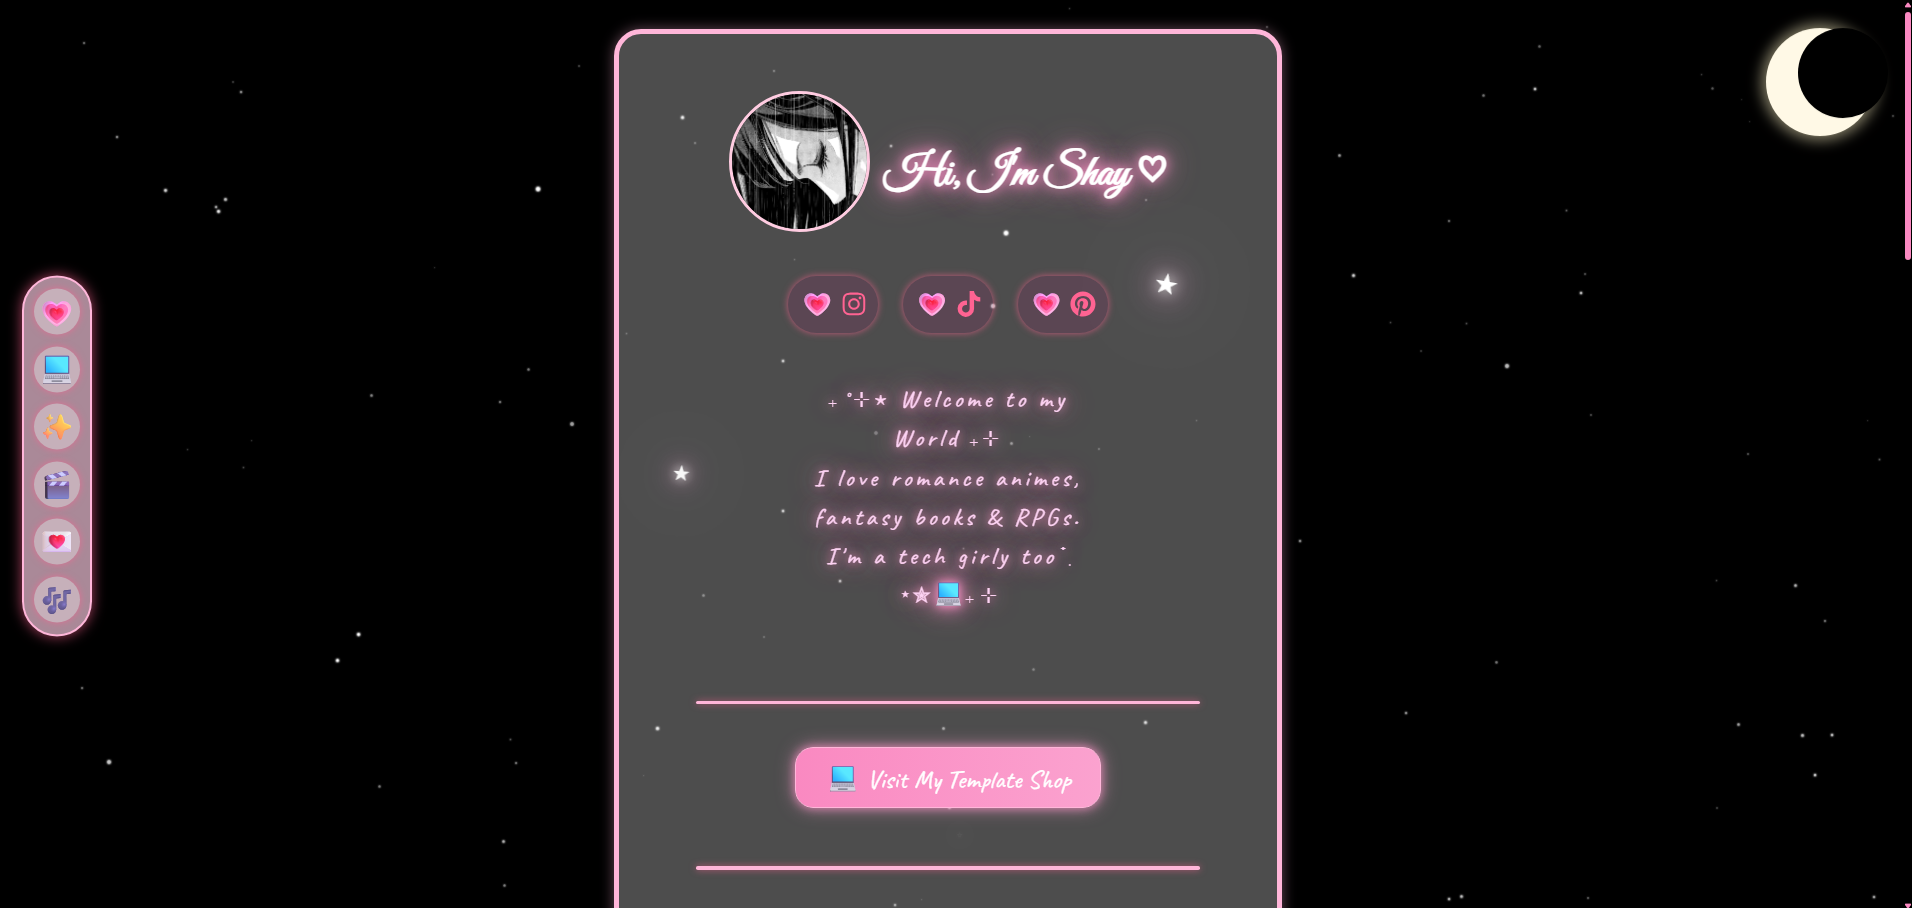
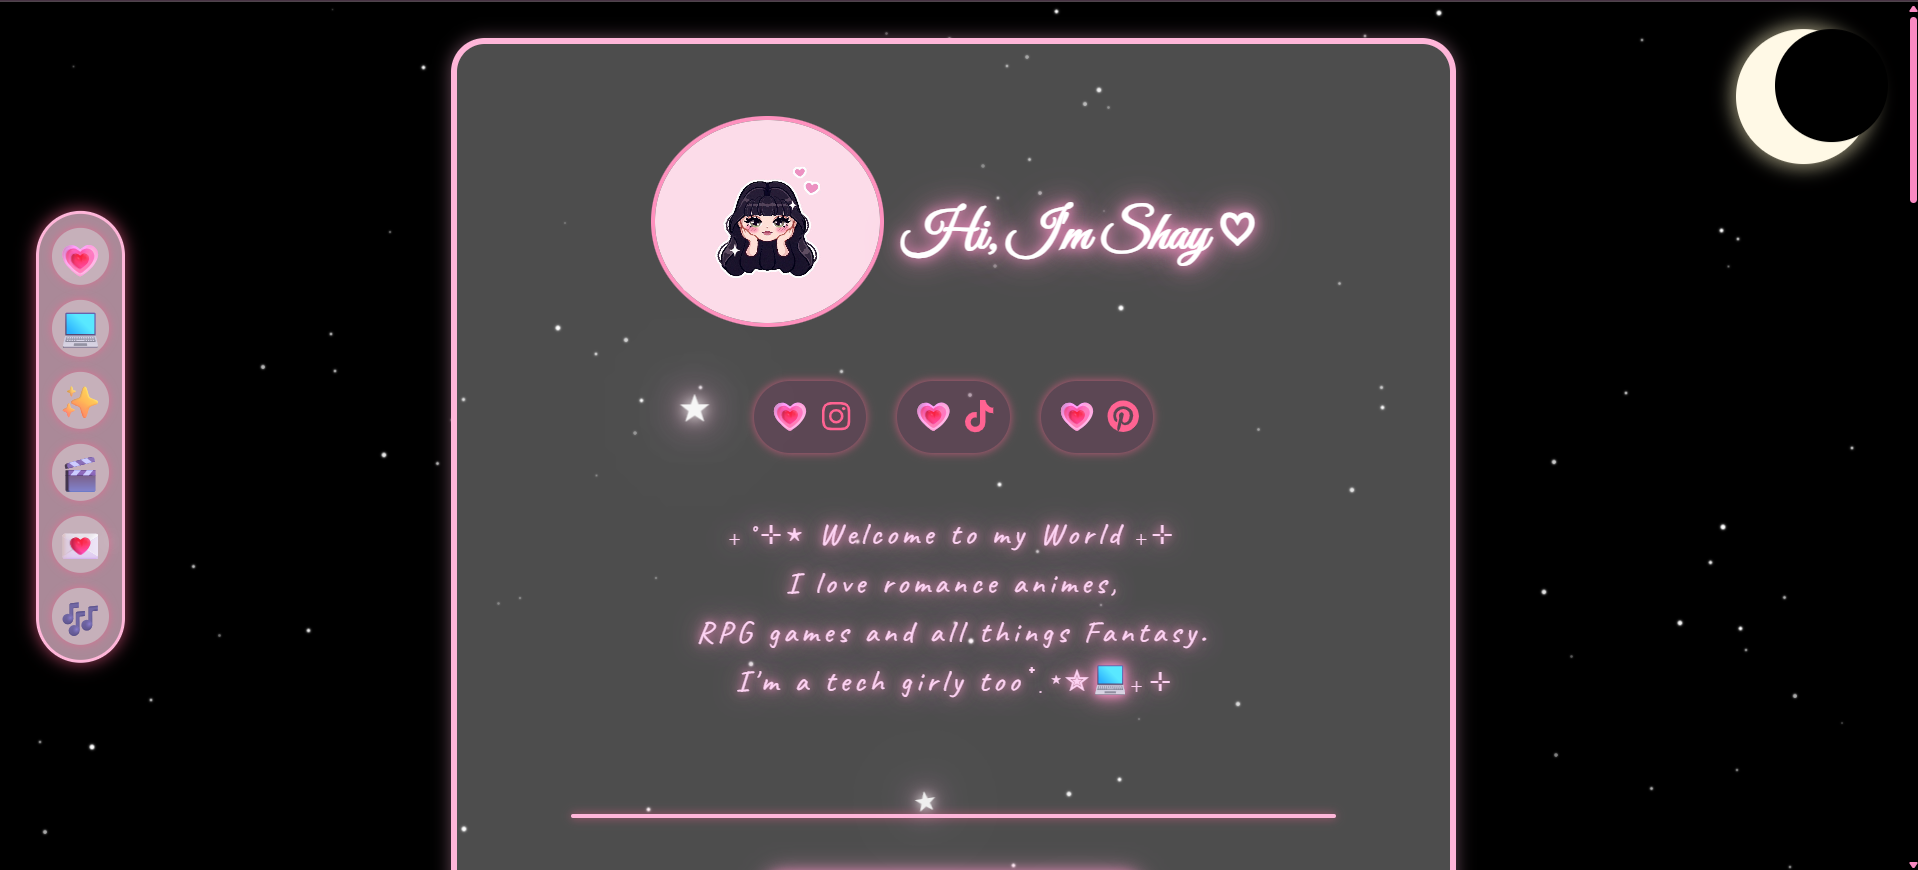
pfp and projects update

diff --git a/src/pages/Projects.jsx b/src/pages/Projects.jsx
@@ -47,7 +47,10 @@ function Projects() {
   link: "https://saule6antibes.netlify.app/"
 },
 
-    {
+
+    { id: 1.645535433253, title: "Élevage des Ruby de Jade", image: ruby, category: "client", description: `A responsive, professional website built for a French dog breeder to showcase dogs, litters, and pedigrees. Developed with React (Vite, JavaScript), it features interactive pedigree trees, dynamic galleries, and a mobile-friendly design. Includes a secure admin portal that allows the client to manage content, update news, and edit site details independently, no additional assistance required.`, link: "https://elevage-des-ruby-de-jade.fr/" },
+
+       {
   id: 5.3635353,
   title: "My Personal site/Template shop",
   image: shaysworld, 
@@ -56,13 +59,14 @@ function Projects() {
   link: "https://shays.world/"
 },
 
-    { id: 1.645535433253, title: "Élevage des Ruby de Jade", image: ruby, category: "client", description: `A responsive, professional website built for a French dog breeder to showcase dogs, litters, and pedigrees. Developed with React (Vite, JavaScript), it features interactive pedigree trees, dynamic galleries, and a mobile-friendly design. Includes a secure admin portal that allows the client to manage content, update news, and edit site details independently, no additional assistance required.`, link: "https://elevage-des-ruby-de-jade.fr/" },
     { id: 1.64543253, title: "Moon & Cards", image: moon, category: "personal", description: `Moon and Cards is a full-stack web app that lets users ask questions, draw tarot cards, and receive interactive readings. Built with React (Vite) and an Express/Node.js API, it’s deployed on Netlify and Render, showcasing my ability to design and deploy responsive, end-to-end applications.`, link: "https://lune.cards/" },
+
+    { id: 5, title: "Crimson Vial Commissions Form", image: crim, category: "client", description: `This project is a responsive, React-based web application designed to handle complex commission requests for 3D artwork. It features dynamic form fields, file uploads with live image previews, and integrates with Firebase Storage for secure image hosting. The form submission is powered by EmailJS, allowing automated notifications with uploaded assets. The UI is styled with custom fantasy-themed fonts, scrollbars, and interactive elements, with full mobile and tablet responsiveness. Accessibility, usability, and visual hierarchy were carefully considered to provide a seamless experience for users submitting detailed creative requests.`, link: "https://crimson-vial-commissions.netlify.app/" },
+ { id: 1.3, title: "My Happy Little Journal", image: journal, category: "personal", description: `An interactive web app that helps users track their emotions by writing or speaking journal entries. Users can choose or type their mood, receive mental health tips or motivational quotes, and save their reflections locally. The app also supports importing and exporting journal entries for personal backups or cross-device use. Built with React and React Router, it features clean user interface & smooth navigation between pages.`, link: "https://myhappylittlejournal.com/" },
     { id: 1.6453, title: "The Skindex Analyzer", image: skindex, category: "personal", description: `Skindex Analyzer is a full-stack skincare analysis web app built with React and Firebase, integrating Google's Gemini API for intelligent product evaluation. Users input their skincare routine, and the app provides a personalized analysis, ideal usage times, potential ingredient conflicts, and AM/PM regimen suggestions. Additional features include email export, emoji-enhanced summaries, and a mobile-first responsive design.`, link: "https://skindexanalyzer.com/" },
-    { id: 1.3, title: "My Happy Little Journal", image: journal, category: "personal", description: `An interactive web app that helps users track their emotions by writing or speaking journal entries. Users can choose or type their mood, receive mental health tips or motivational quotes, and save their reflections locally. The app also supports importing and exporting journal entries for personal backups or cross-device use. Built with React and React Router, it features clean user interface & smooth navigation between pages.`, link: "https://myhappylittlejournal.com/" },
+   
     { id: 1.789, title: "La Cucina di Shay / Shay's Kitchen", image: recipe, category: "personal", description: `A responsive and dynamic full stack web application that allows users to explore, review, and see added recipes and restaurants categorized by country. The app includes an admin-only review form, image uploads via Firebase Storage, blog-style recipe posts, and a polished UI with mobile-first responsive design. I implemented custom components for country filtering, dynamic star ratings, protected admin routes, and sleek UI animations using CSS. Firebase handles authentication, real time data updates, and secure media storage.`, link: "https://lacucinadishay.com/" },
     { id: 2.6, title: "The Angy Portal", image: angyportal, category: "personal", description: `AngyPortal is a web-based communication platform designed to help people express grievances to their partners in a structured, emotionally safe way. After a partner consents via a secure email verification process, users can submit feedback through a guided form. The platform then sends this feedback directly to the partner via email. Built with a React front end and a Firebase backend, AngyPortal emphasizes clarity, consent, and accountability in relationships, empowering users to voice their concerns while encouraging thoughtful dialogue.`, link: "https://angyportal.love/" },
-    { id: 5, title: "Crimson Vial Commissions", image: crim, category: "client", description: `This project is a responsive, React-based web application designed to handle complex commission requests for 3D artwork. It features dynamic form fields, file uploads with live image previews, and integrates with Firebase Storage for secure image hosting. The form submission is powered by EmailJS, allowing automated notifications with uploaded assets. The UI is styled with custom fantasy-themed fonts, scrollbars, and interactive elements, with full mobile and tablet responsiveness. Accessibility, usability, and visual hierarchy were carefully considered to provide a seamless experience for users submitting detailed creative requests.`, link: "https://crimson-vial-commissions.netlify.app/" },
     { id: 1.4, title: "Rikki's Digital Portfolio", image: rikkiport, category: "client", description: `This responsive one-page React app was designed for a professional stylist to elegantly showcase their work and creative style. Built with React (Vite) and styled using modern CSS techniques, the site blends soft visual elements, subtle animations, and a sleek, minimal layout. Key features include a responsive image grid, a custom fade-in title animation, and a touch of personality through carefully selected fonts and shadows. The project emphasizes clarity, visual flow, and an inviting user experience across all devices.`, link: "https://rikkisportfolio.netlify.app/" },
     { id: 4.45345345, title: "Samantha's Digital Portfolio", image: samport, category: "client", description: `A sleek one-page React app designed to showcase a hairstylist’s work, personality, and booking info in a modern, animated format. I built this portfolio with custom components, smooth transitions, and responsive styling to highlight the stylist’s brand while keeping the user experience bold and intuitive. The navbar features the stylist's name and a "Book with Me" button that links directly to their Instagram, creating a seamless bridge between portfolio and bookings.`, link: "https://samanthakerivan.netlify.app/" },
     { id: 1.6464353, title: "LooksByLil Digital Portfolio", image: lillyport, category: "client", description: `This portfolio is a vibrant one-page React app created for a barber/cosmetologist to showcase their work and style. It blends retro neon aesthetics with modern web design principles. I crafted it with animated glowing effects, bold typography, and a fixed sidebar that channels a vintage arcade feel while ensuring smooth, responsive navigation across devices. The design highlights the client’s creativity and personality through eye-catching visuals, while keeping the user interface clean and easy to explore.`, link: "https://looksbylilportfolio.netlify.app/" },

diff --git a/src/pages/HomePage.jsx b/src/pages/HomePage.jsx
@@ -1,6 +1,6 @@
 import { Link } from "react-router-dom";
-import pfp from '../assets/2026pfp.jpeg';
-import resume from "../assets/SBResume.pdf"
+import pfp from '../assets/pfpnew.jpeg';
+
 
 function HomePage() {
     return (
